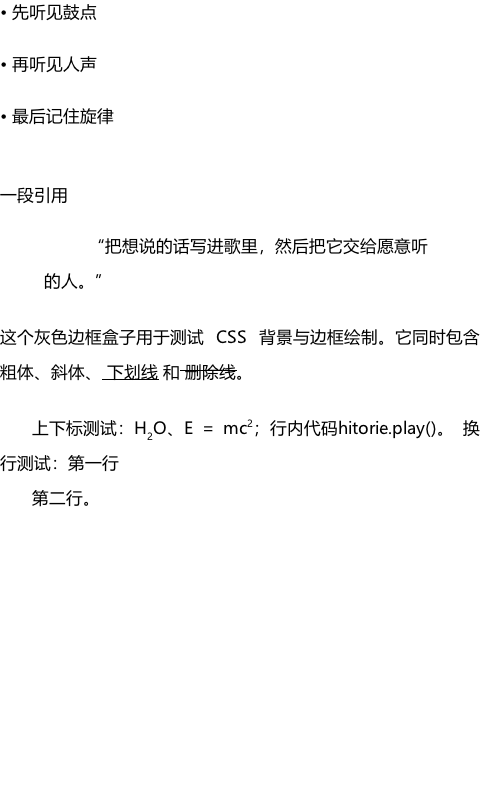
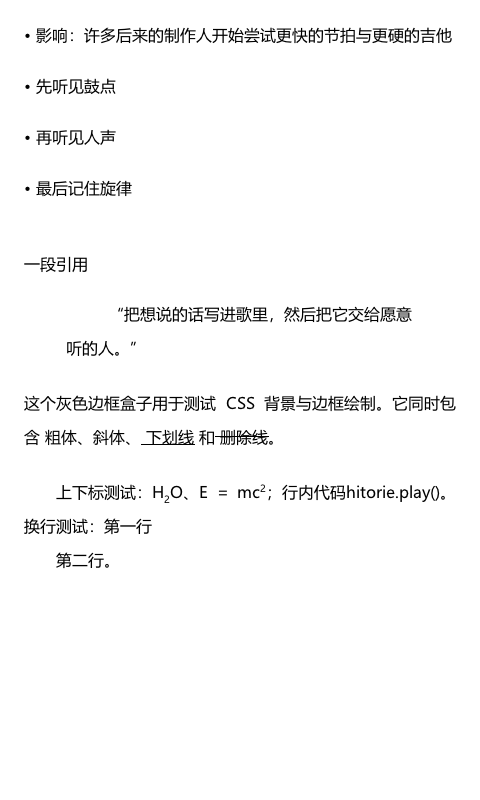
feat(cli): --margin option; refresh wowaka screenshots with page margins

diff --git a/tools/repub_cli.cpp b/tools/repub_cli.cpp
@@ -50,6 +50,7 @@ void print_usage() {
         "  --height N           page height in pixels       (default 800)\n"
         "  --font-size N        body font size in pixels    (default 22)\n"
         "  --line-height N      line height percent         (default 160)\n"
+        "  --margin N           page margins in pixels       (default 0)\n"
         "  --vertical           vertical writing mode\n"
         "  --font file.ttf      load a TTF as the body font\n"
         "  --mono               render into a MONO1 canvas  (default GRAY8)\n"
@@ -82,6 +83,7 @@ struct Options {
     int32_t height = 800;
     int32_t font_size = 22;
     int32_t line_height = 160;
+    int32_t margin = 0;
     int32_t page = 0;
     bool page_set = false;
     bool vertical = false;
@@ -112,6 +114,9 @@ bool parse_options(int argc, char** argv, std::vector<std::string>* positional,
         } else if (arg == "--line-height") {
             std::string value;
             if (!next_value(&value) || !parse_int(value, &options->line_height)) return false;
+        } else if (arg == "--margin") {
+            std::string value;
+            if (!next_value(&value) || !parse_int(value, &options->margin)) return false;
         } else if (arg == "--page") {
             std::string value;
             if (!next_value(&value) || !parse_int(value, &options->page)) return false;
@@ -133,7 +138,7 @@ bool parse_options(int argc, char** argv, std::vector<std::string>* positional,
         }
     }
     if (options->width <= 0 || options->height <= 0 || options->font_size <= 0 ||
-        options->line_height <= 0 || options->page < 0) {
+        options->line_height <= 0 || options->margin < 0 || options->page < 0) {
         return false;
     }
     return true;
@@ -143,6 +148,10 @@ repub_layout_spec_t make_spec(const Options& options) {
     repub_layout_spec_t spec = repub::default_layout_spec(
         repub_rect_t{0, 0, options.width, options.height}, options.font_size);
     spec.line_height_percent = options.line_height;
+    spec.margin_left_px = options.margin;
+    spec.margin_right_px = options.margin;
+    spec.margin_top_px = options.margin;
+    spec.margin_bottom_px = options.margin;
     if (options.vertical) spec.writing_mode = REPUB_WRITING_VERTICAL_RL;
     return spec;
 }
